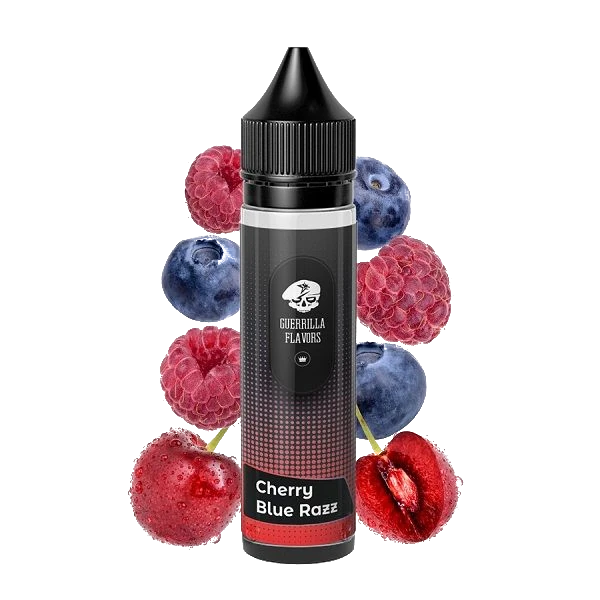
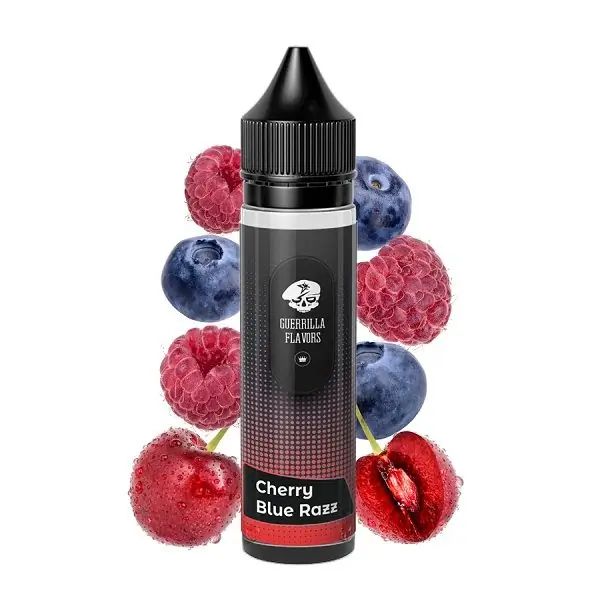
images: Convert all images to webp.

diff --git a/src/routes/+page.svelte b/src/routes/+page.svelte
@@ -135,12 +135,12 @@
                 class="grid lg:flex lg:justify-between grid-cols-1 gap-y-24 mt-8"
             >
                 <img
-                    src="/images/vozol/vozol.png"
+                    src="/images/vozol/vozol.webp"
                     alt="Vozol"
                     class="h-[60px]"
                 />
                 <img
-                    src="/images/elfv2/elfbar.png"
+                    src="/images/elfv2/elfbar.webp"
                     alt="Elf Bar"
                     class="h-[60px]"
                 />
@@ -182,7 +182,7 @@
                     </a>
                 </SiteFeatureBox>
                 <SiteFeatureBox
-                    img_url={"/images/ahh.png"}
+                    img_url={"/images/ahh.webp"}
                     title="Satisfactie totala"
                     description="Atat am avut de spus"
                 />

diff --git a/src/routes/order-shipping/+page.svelte b/src/routes/order-shipping/+page.svelte
@@ -65,7 +65,7 @@
                 return {
                     value: method.name,
                     display: method.display,
-                    image_url: `/images/shipping/${method.name}.png`,
+                    image_url: `/images/shipping/${method.name}.webp`,
                     cost_value: { cost: method.cost.price, currency: "RON" },
                     delivery_time_value: delivery_time,
                     selected: orderinfo!.shipping_method?.value === method.name,

diff --git a/src/lib/layout/Footer.svelte b/src/lib/layout/Footer.svelte
@@ -43,7 +43,7 @@
                 >
                 <a class="block mt-2" href="https://anpc.ro/ce-este-sal/">
                     <img
-                        src="/images/legalstuff/sal.png"
+                        src="/images/legalstuff/sal.webp"
                         alt="Soluționarea Alternativă a Litigiilor"
                     />
                 </a>

diff --git a/src/lib/orderinfo/shipping_methods.ts b/src/lib/orderinfo/shipping_methods.ts
@@ -5,5 +5,5 @@ export function shipping_get_methods(weight_grams = 100) {
 }
 
 export function shipping_methods_get_img_url(value: string) {
-    return `/images/shipping/${value}.png`;
+    return `/images/shipping/${value}.webp`;
 }
